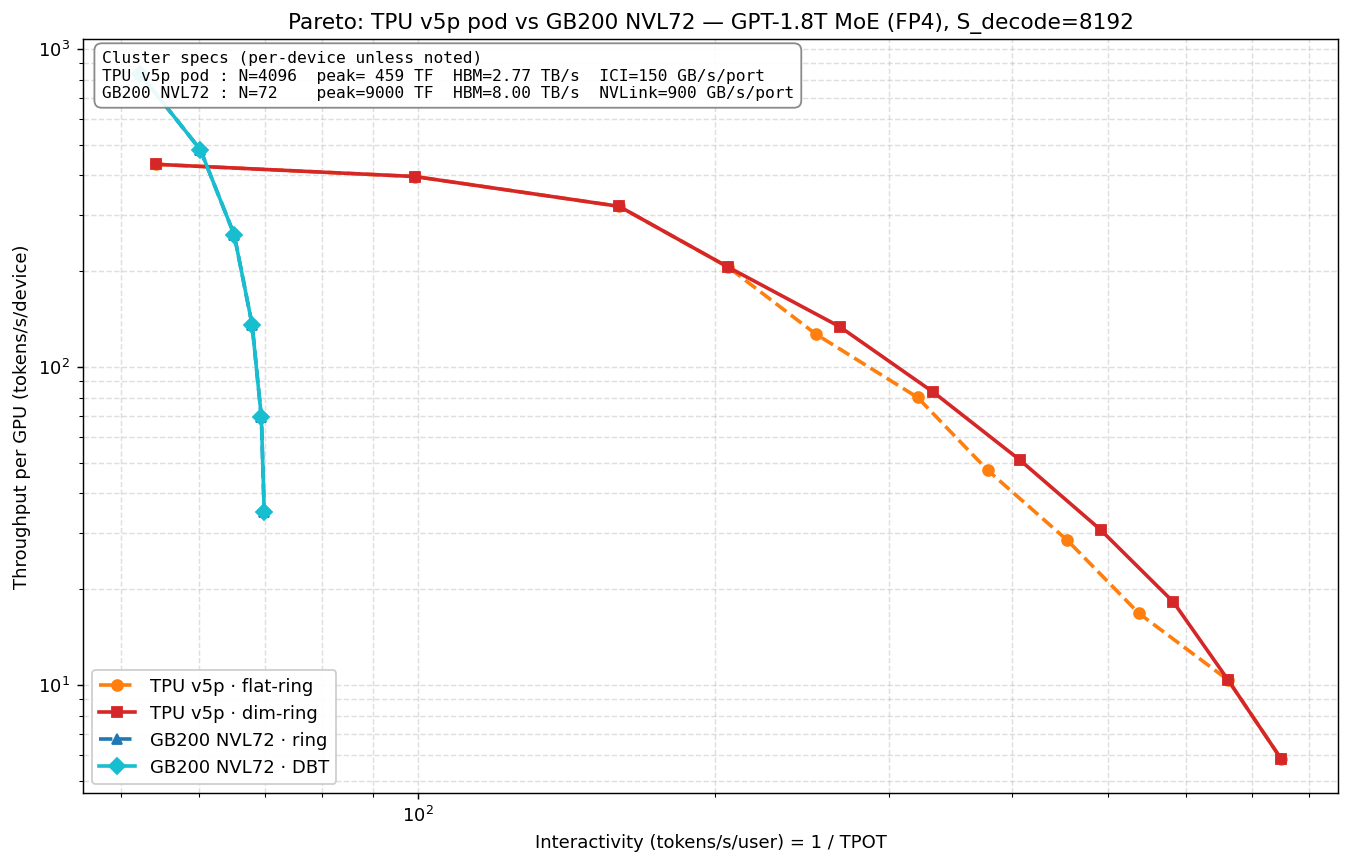
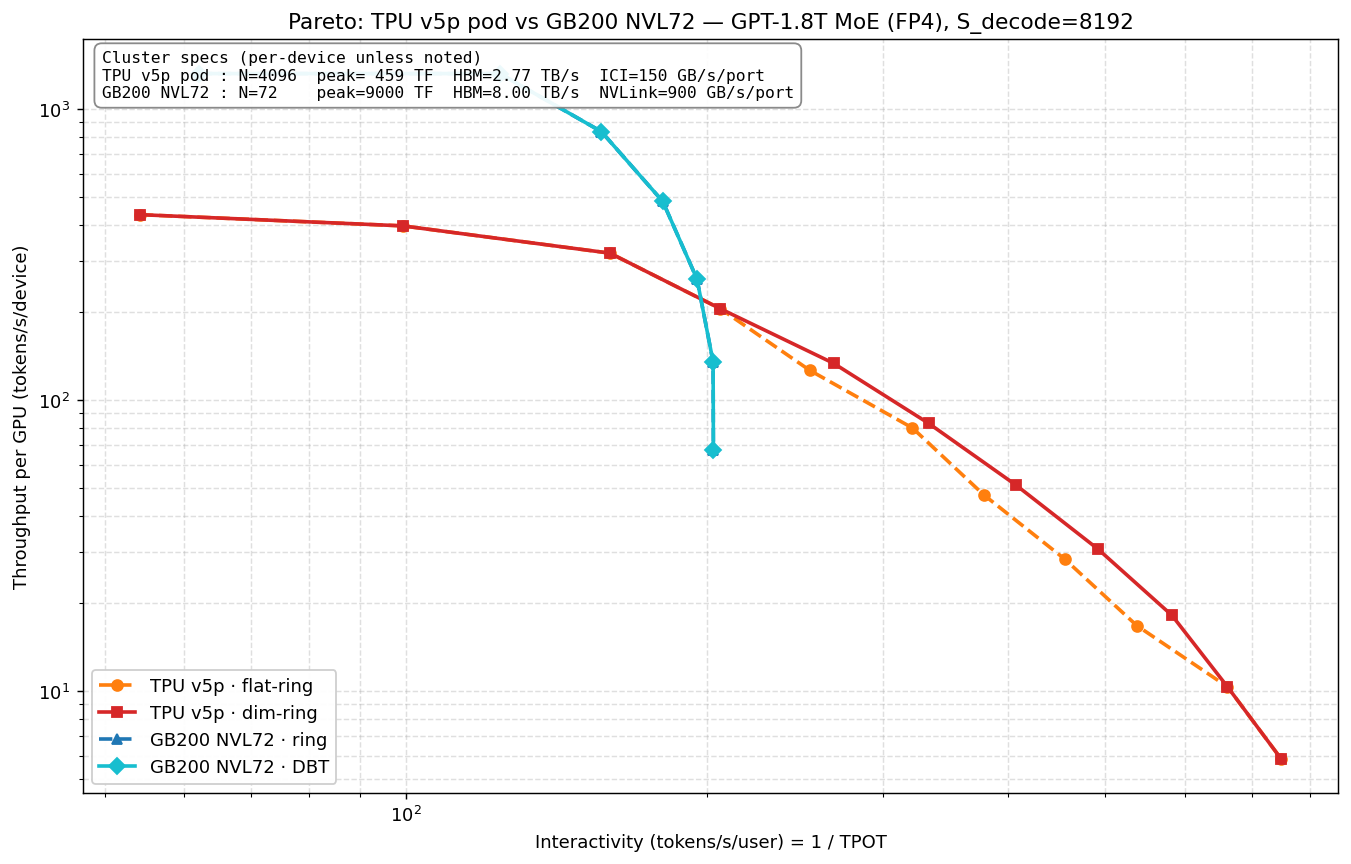
docs(notebooks): unify partition range across NVL72 sweeps + re-run
Apply the same partition range to all GB200 NVL72 sweep notebooks, matching
the pareto_collective_algorithms baseline:

  PP_CHOICES = [1, 2, 3, 4, 5, 6, 8, 10, 12, 15, 20, 24, 30, 40, 60]
  TP_CHOICES = [1, 2, 4, 8, 16]
  EP_CHOICES = [1, 2, 4, 8, 16]
  SP_CHOICES = [1, 2, 4, 8, 16, 32, 64]

Affected notebooks (re-run in-place):
  pareto_basic, pareto_vs_cluster_size, pareto_vs_flops, pareto_vs_io,
  pareto_vs_mem, pareto_vs_overhead, pareto_tpu_vs_gb200.

Asset deltas: pareto_basic, tpu_vs_gb200, vs_cluster_size (+ deepseek),
vs_flops (+ short_vs_long) — these notebooks plot clouds or per-N
frontiers that the wider sweep changes. vs_io, vs_mem, vs_overhead
PNGs are byte-identical because they only plot the per-anchor frontier
*shape*, which the additional partition shapes don't displace.

README updates for the four major number shifts:
  - pareto_basic headline: 91→304 valid partitions, 2247→7469 evals,
    38→34 frontier; new winning shapes (PP=60 TP=1 dominates).
  - pareto_vs_cluster_size: PP saturates at 60 (was 120 — now capped);
    TP progression 1→2→4→8→16 (was 1→1→2→4→8); table refreshed.
  - DeepSeek-R1 cross-comparison: GPT shape PP=120 → PP=60.
  - tpu_vs_gb200 headline: GB200 peak 836→1324 tok/s/GPU and peak
    interact 70→202 (PP=12 wins now that non-power-of-2 PP is in the
    sweep); TPU peak interact 731→749 (small shift). The "GB200 ~2×"
    and "TPU ~10×" claims become "~3×" and "~3.7×" respectively.

diff --git a/README.md b/README.md
@@ -157,7 +157,7 @@ The case studies use **GPT-1.8T MoE @ FP4** on **GB200-class devices** (NVL72 ba
 
 Enumerates every valid `(PP, TP, EP, SP)` partition, sweeps `B` from 1 to the KV-paging max per partition, then extracts the upper-right envelope in (interactivity, throughput/GPU) space. Left panel shows the full cloud with the frontier overlaid; right panel colors the same cloud by pipeline parallelism (PP) so the regime segmentation is visible.
 
-**Headline:** at baseline GB200 NVL72, **91 valid partitions → 2,247 `(partition, B)` evaluations → 38 frontier points (~1.7% of the cloud)**. Of those 38, `PP=8 TP=8 EP=1` claims 34 and `PP=6 TP=4 EP=1` claims the remaining 4. PP dominates regime selection: shallow PP sits in the high-interactivity corner (low per-GPU throughput, small B), deep PP in the high-throughput corner (large B amortizes warmup). The later notebooks (`pareto_vs_io`, `pareto_vs_mem`, `pareto_vs_overhead`) re-run this exact enumeration once per hardware/overhead anchor and plot only the frontier — this notebook is what's underneath.
+**Headline:** at baseline GB200 NVL72, **304 valid partitions → 7,469 `(partition, B)` evaluations → 34 frontier points (~0.5% of the cloud)**. Of those 34, `PP=60 TP=1 EP=1` claims 24, `PP=30 TP=2 EP=1` claims 5, `PP=24 TP=1 EP=1` claims 3, and `PP=15 TP=4 EP=1` claims 2. PP dominates regime selection: shallow PP sits in the high-interactivity corner (low per-GPU throughput, small B), deep PP in the high-throughput corner (large B amortizes warmup). The later notebooks (`pareto_vs_io`, `pareto_vs_mem`, `pareto_vs_overhead`) re-run this exact enumeration once per hardware/overhead anchor and plot only the frontier — this notebook is what's underneath.
 
 ### `pareto_vs_cluster_size.ipynb` — decode Pareto under cluster-size scaling
 
@@ -167,15 +167,15 @@ Enumerates every valid `(PP, TP, EP, SP)` partition, sweeps `B` from 1 to the KV
 
 Enumerates every valid `(PP, TP, EP, SP)` partition with `PP·TP·EP·SP ≤ N` for each `N ∈ {64, 128, 256, 512, 1024}`, sweeps `B` per partition, extracts the frontier per `N`. Solid curves assume ideal fabric (η=1.0); dashed curves apply a diminishing fabric efficiency η for large clusters (η=0.90 at N=256, 0.80 at N=512, 0.70 at N=1024) to model head-of-line blocking, buffering contention, and protocol overhead at scale.
 
-**Headline:** winning `PP` climbs to `L=120` (one layer per rank) by `N=128`, then further devices go to TP. Winning TP steps **1 → 1 → 2 → 4 → 8** as N doubles from 64 → 1024. EP stays at 1 throughout — MoE routing overhead outweighs expert parallelism at this scale and batch size. With diminishing η, the frontier at large N pulls inward — the gap between ideal and η-discounted grows with cluster size, quantifying the cost of fabric inefficiency on achievable throughput and interactivity.
+**Headline:** winning `PP` saturates at 60 (the largest divisor of `L=120` in the partition sweep) by `N=64` and stays there as N grows; further devices go to TP. Winning TP steps **1 → 2 → 4 → 8 → 16** as N doubles from 64 → 1024. EP stays at 1 throughout — MoE routing overhead outweighs expert parallelism at this scale and batch size. With diminishing η, the frontier at large N pulls inward — the gap between ideal and η-discounted grows with cluster size, quantifying the cost of fabric inefficiency on achievable throughput and interactivity.
 
 | N    | dominant winner (× points) | replica | DP | util |
 |------|----------------------------|---------|----|------|
-| 64   | `PP=60  TP=1` (×25)       | 60  | 1  | 93.8% |
-| 128  | `PP=120 TP=1` (×26)       | 120 | 1  | 93.8% |
-| 256  | `PP=120 TP=2` (×30)       | 240 | 1  | 93.8% |
-| 512  | `PP=120 TP=4` (×26)       | 480 | 1  | 93.8% |
-| 1024 | `PP=120 TP=8` (×22)       | 960 | 1  | 93.8% |
+| 64   | `PP=60 TP=1` (×25)        | 60  | 1  | 93.8% |
+| 128  | `PP=60 TP=2` (×30)        | 120 | 1  | 93.8% |
+| 256  | `PP=60 TP=4` (×30)        | 240 | 1  | 93.8% |
+| 512  | `PP=60 TP=8` (×26)        | 480 | 1  | 93.8% |
+| 1024 | `PP=60 TP=16` (×20)       | 960 | 1  | 93.8% |
 
 Device utilization is the silent cost — `DP = N // replica` is floored, so partitions whose replica doesn't divide `N` waste devices. All listed `N` land on ≥93.8% util shapes, but "in-between" sizes (e.g. N=768) force partial-utilization choices and produce diverse but less efficient frontiers. **Practical rule:** pick cluster sizes that are multiples of `L` (or its divisors like 60) to land on high-utilization frontiers.
 
@@ -183,7 +183,7 @@ Device utilization is the silent cost — `DP = N // replica` is floored, so par
 
 ![decode Pareto vs. cluster size — GPT-1.8T MoE vs DeepSeek-R1](assets/pareto_vs_cluster_size_deepseek.png)
 
-DeepSeek-R1 has a very different lever profile on paper: `L=61` is prime (so PP is binary, 1 or 61), `n_experts=256` makes EP a headline capability, and `n_kv=5` keeps KV traffic tiny. A naïve prediction is that DeepSeek scales via EP while GPT scales via PP. The actual sweep **refutes that prediction** — on the frontier, DeepSeek's winning shape is `PP=61 + TP ∈ {1,2,4,8}` as N doubles 64 → 1024, mirroring GPT's `PP=120 + TP ∈ {1,2,4,8}`. EP stays at 1 almost everywhere, flickering to EP=2 only on a few interior points at N=1024. The decode-Pareto optimizer dislikes EP: MoE all-to-all adds per-layer latency on the interactivity corner that low-TP plain PP avoids. `n_experts=256` is an *architectural capability*, not a partition the frontier wants to use. **Both models converge on the same scaling rule: max out PP to L, then grow TP, leave EP at 1.**
+DeepSeek-R1 has a very different lever profile on paper: `L=61` is prime (so PP is binary, 1 or 61), `n_experts=256` makes EP a headline capability, and `n_kv=5` keeps KV traffic tiny. A naïve prediction is that DeepSeek scales via EP while GPT scales via PP. The actual sweep **refutes that prediction** — on the frontier, DeepSeek's winning shape is `PP=61 + TP ∈ {1,2,4,8}` as N doubles 64 → 1024, mirroring GPT's `PP=60 + TP ∈ {1,2,4,8,16}`. EP stays at 1 almost everywhere, flickering to EP=2 only on a few interior points at N=1024. The decode-Pareto optimizer dislikes EP: MoE all-to-all adds per-layer latency on the interactivity corner that low-TP plain PP avoids. `n_experts=256` is an *architectural capability*, not a partition the frontier wants to use. **Both models converge on the same scaling rule: max out PP toward L, then grow TP, leave EP at 1.**
 
 ### `pareto_tpu_vs_gb200.ipynb` — TPU v5p pod vs GB200 NVL72 across collective algorithms
 
@@ -193,7 +193,7 @@ DeepSeek-R1 has a very different lever profile on paper: `L=61` is prime (so PP 
 
 Four frontiers on one figure for GPT-1.8T MoE @ FP4, `S_decode=8192`: **TPU v5p pod** (4096 devices, 16³ torus) with flat-ring vs dim-decomposed ring; **GB200 NVL72** (72 devices, single-tier NVLink crossbar) with ring vs double-binary-tree (DBT). Both variants swap *all* collective algorithms on the dispatcher — TP all-reduce, EP MoE all-to-all, and (on TPU) all-gather — so each frontier reflects a coherent algorithm choice across the full stack, not just AR. Per-system sweeps enumerate every valid `(PP, TP, EP, SP)` partition and `B ∈ [1, 256]`, extract the upper-right envelope, and overlay all four frontiers. The device-count asymmetry (4096 vs 72) is intentional — the y-axis (throughput/**GPU**) and x-axis (interactivity = 1/TPOT) are per-device/per-user, so the comparison is about what each fabric squeezes out of a single device, not about aggregate pod capacity.
 
-**Headline:** **GB200 wins peak throughput/GPU ~2× (836 vs 434 tok/s/GPU)** — reflecting both per-device FLOPS (9000 vs 459 TF) and HBM bandwidth (8 TB/s vs 2.8 TB/s). **TPU wins peak interactivity by ~10× (731 vs 70 tok/s)** — not for fabric reasons but because a 4096-device pod admits much wider weight sharding (`PP·TP·EP` up to 32 at the interactivity corner), whereas NVL72's 72-way factorization tops out at replica = 8 for this model, leaving each device with ~112 GB of weights to stream per token. The decode interactivity corner is HBM-BW-bound, and at B=1 the corner TPOT ~ `M_θ / (replica · BW_HBM)` — the pod's sharding headroom dominates. **DBT and ring overlap on GB200 NVL72** (single-tier, α=0.5 μs, G ≤ 8 — the α gap between `2(G−1)α` and `2⌈log₂G⌉α` is swamped by memory traffic in both AR and A2A). **TPU flat-ring and dim-ring coincide** — `gpt_1_8t_moe`'s divisibility constraints (`TP | 16`, `EP | 16`) keep every group size ≤ 16 and prefix-aligned with `(16, 16, 16)`, so the fallback branch never fires on any collective. The lesson: collective-algorithm choice moves a frontier only when the regime is α-bound *and* the group size exposes the scaling-order difference; at either memory-bound corner it's the fabric's *size headroom* — how wide you can shard — that decides interactivity.
+**Headline:** **GB200 wins peak throughput/GPU ~3× (1324 vs 434 tok/s/GPU)** — reflecting both per-device FLOPS (9000 vs 459 TF) and HBM bandwidth (8 TB/s vs 2.8 TB/s). **TPU wins peak interactivity by ~3.7× (749 vs 203 tok/s)** — not for fabric reasons but because a 4096-device pod admits much wider weight sharding (`PP·TP·EP` up to 32 at the interactivity corner), whereas NVL72's 72-way factorization caps replica at 60 for this model with the wider partition range, leaving each device with ~15 GB of weights to stream per token. The decode interactivity corner is HBM-BW-bound, and at B=1 the corner TPOT ~ `M_θ / (replica · BW_HBM)` — the pod's sharding headroom dominates. **DBT and ring overlap on GB200 NVL72** (single-tier, α=0.5 μs, G ≤ 16 — the α gap between `2(G−1)α` and `2⌈log₂G⌉α` is swamped by memory traffic in both AR and A2A). **TPU flat-ring and dim-ring coincide** — `gpt_1_8t_moe`'s divisibility constraints (`TP | 16`, `EP | 16`) keep every group size ≤ 16 and prefix-aligned with `(16, 16, 16)`, so the fallback branch never fires on any collective. The lesson: collective-algorithm choice moves a frontier only when the regime is α-bound *and* the group size exposes the scaling-order difference; at either memory-bound corner it's the fabric's *size headroom* — how wide you can shard — that decides interactivity.
 
 ### `pareto_vs_io.ipynb` — decode Pareto under scale-up I/O provisioning
 
